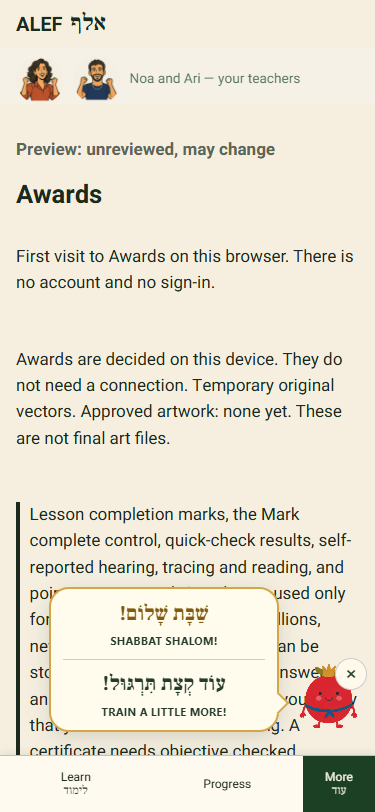
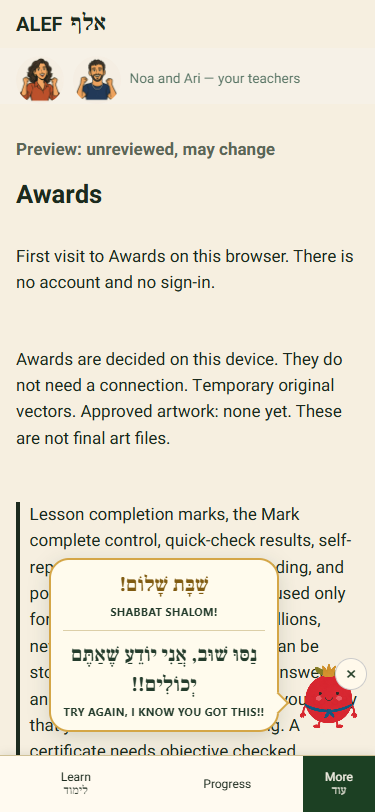
Fix mascot deployment and schedule greetings and break reminders

Changed region(s): [[0.1173, 0.6773, 0.7627, 0.8929], [0.616, 0.8621, 0.704, 0.8929]]

diff --git a/precache-manifest.js b/precache-manifest.js
@@ -1,5 +1,5 @@
 // GENERATED by tools/build-precache.mjs - do not edit.
-self.ALEF_VERSION = "c4c90d040247";
+self.ALEF_VERSION = "8133b239e48e";
 self.ALEF_PRECACHE = [
  "index.html",
  "offline.html",
@@ -306,13 +306,6 @@ self.ALEF_PRECACHE = [
  "src/trope/loader.js",
  "src/trope/model.js",
  "src/trope/trope.view.js",
- "src/typing/guide.js",
- "src/typing/typing.js",
- "src/typing/typing.view.js",
- "src/wordtrace/bank.js",
- "src/wordtrace/flow.js",
- "src/wordtrace/niqqud.js",
- "src/wordtrace/wordtrace.view.js",
  "assets/css/app.css",
  "assets/css/arcade.css",
  "assets/css/astral-home.css",
@@ -454,6 +447,9 @@ self.ALEF_ON_DEMAND = [
  "src/torahreader/torahreader.view.js",
  "src/traditions/model.js",
  "src/traditions/traditions.view.js",
+ "src/typing/guide.js",
+ "src/typing/typing.js",
+ "src/typing/typing.view.js",
  "src/vocab/aliases.js",
  "src/vocab/clips.js",
  "src/vocab/loader.js",
@@ -462,6 +458,10 @@ self.ALEF_ON_DEMAND = [
  "src/vocab/themes.view.js",
  "src/vocab/vocab.js",
  "src/vocab/vocab.view.js",
+ "src/wordtrace/bank.js",
+ "src/wordtrace/flow.js",
+ "src/wordtrace/niqqud.js",
+ "src/wordtrace/wordtrace.view.js",
  "assets/books/book1/BOOK1_p01.jpg",
  "assets/books/book1/BOOK1_p02.jpg",
  "assets/books/book1/BOOK1_p03.jpg",
@@ -845,6 +845,7 @@ self.ALEF_ON_DEMAND = [
  "assets/games/tugowar/pairs/TUG_believe_doubt.png",
  "assets/games/tugowar/pairs/TUG_bitter_sweet.png",
  "assets/games/tugowar/pairs/TUG_bless_curse.png",
+ "assets/games/tugowar/pairs/TUG_blessing_curse.png",
  "assets/games/tugowar/pairs/TUG_brave_coward.png",
  "assets/games/tugowar/pairs/TUG_bright_dark_colour.png",
  "assets/games/tugowar/pairs/TUG_brother_sister.png",
@@ -854,6 +855,7 @@ self.ALEF_ON_DEMAND = [
  "assets/games/tugowar/pairs/TUG_calm_nervous.png",
  "assets/games/tugowar/pairs/TUG_careful_reckless.png",
  "assets/games/tugowar/pairs/TUG_catch_throw.png",
+ "assets/games/tugowar/pairs/TUG_child_adult.png",
  "assets/games/tugowar/pairs/TUG_city_village.png",
  "assets/games/tugowar/pairs/TUG_come_go.png",
  "assets/games/tugowar/pairs/TUG_connect_disconnect.png",
@@ -888,14 +890,19 @@ self.ALEF_ON_DEMAND = [
  "assets/games/tugowar/pairs/TUG_good_bad.png",
  "assets/games/tugowar/pairs/TUG_grandfather_grandmother.png",
  "assets/games/tugowar/pairs/TUG_groom_bride.png",
+ "assets/games/tugowar/pairs/TUG_guest_host.png",
  "assets/games/tugowar/pairs/TUG_happy_miserable.png",
  "assets/games/tugowar/pairs/TUG_hardworking_lazy.png",
+ "assets/games/tugowar/pairs/TUG_head_tail.png",
+ "assets/games/tugowar/pairs/TUG_health_illness.png",
  "assets/games/tugowar/pairs/TUG_healthy_sick.png",
+ "assets/games/tugowar/pairs/TUG_heat_cold_noun.png",
  "assets/games/tugowar/pairs/TUG_heat_cool.png",
  "assets/games/tugowar/pairs/TUG_here_there.png",
  "assets/games/tugowar/pairs/TUG_hidden_visible.png",
  "assets/games/tugowar/pairs/TUG_holy_everyday.png",
  "assets/games/tugowar/pairs/TUG_hungry_full.png",
+ "assets/games/tugowar/pairs/TUG_income_expense.png",
  "assets/games/tugowar/pairs/TUG_inner_outer.png",
  "assets/games/tugowar/pairs/TUG_inside_outside.png",
  "assets/games/tugowar/pairs/TUG_interesting_boring.png",
@@ -903,6 +910,7 @@ self.ALEF_ON_DEMAND = [
  "assets/games/tugowar/pairs/TUG_keep_throw_away.png",
  "assets/games/tugowar/pairs/TUG_king_queen.png",
  "assets/games/tugowar/pairs/TUG_kosher_nonkosher.png",
+ "assets/games/tugowar/pairs/TUG_landlord_tenant.png",
  "assets/games/tugowar/pairs/TUG_laugh_cry.png",
  "assets/games/tugowar/pairs/TUG_lend_borrow.png",
  "assets/games/tugowar/pairs/TUG_life_death.png",
@@ -913,6 +921,7 @@ self.ALEF_ON_DEMAND = [
  "assets/games/tugowar/pairs/TUG_love_hate.png",
  "assets/games/tugowar/pairs/TUG_love_hatred.png",
  "assets/games/tugowar/pairs/TUG_loved_hated.png",
+ "assets/games/tugowar/pairs/TUG_male_female.png",
  "assets/games/tugowar/pairs/TUG_man_woman.png",
  "assets/games/tugowar/pairs/TUG_married_single.png",
  "assets/games/tugowar/pairs/TUG_marry_divorce.png",
@@ -921,9 +930,11 @@ self.ALEF_ON_DEMAND = [
  "assets/games/tugowar/pairs/TUG_more_less.png",
  "assets/games/tugowar/pairs/TUG_morning_evening.png",
  "assets/games/tugowar/pairs/TUG_mountain_valley.png",
+ "assets/games/tugowar/pairs/TUG_noise_quiet.png",
  "assets/games/tugowar/pairs/TUG_north_south.png",
  "assets/games/tugowar/pairs/TUG_on_off.png",
  "assets/games/tugowar/pairs/TUG_open_close.png",
+ "assets/games/tugowar/pairs/TUG_past_future.png",
  "assets/games/tugowar/pairs/TUG_peace_war.png",
  "assets/games/tugowar/pairs/TUG_permanent_temporary.png",
  "assets/games/tugowar/pairs/TUG_pleasant_disgusting.png",
@@ -931,20 +942,25 @@ self.ALEF_ON_DEMAND = [
  "assets/games/tugowar/pairs/TUG_positive_negative.png",
  "assets/games/tugowar/pairs/TUG_praise_criticize.png",
  "assets/games/tugowar/pairs/TUG_private_public.png",
+ "assets/games/tugowar/pairs/TUG_profit_loss.png",
  "assets/games/tugowar/pairs/TUG_pure_impure.png",
  "assets/games/tugowar/pairs/TUG_push_pull.png",
  "assets/games/tugowar/pairs/TUG_question_answer.png",
  "assets/games/tugowar/pairs/TUG_quickly_slowly.png",
+ "assets/games/tugowar/pairs/TUG_rain_drought.png",
  "assets/games/tugowar/pairs/TUG_raise_lower.png",
  "assets/games/tugowar/pairs/TUG_remember_forget.png",
  "assets/games/tugowar/pairs/TUG_rich_poor.png",
  "assets/games/tugowar/pairs/TUG_right_left.png",
+ "assets/games/tugowar/pairs/TUG_righteous_wicked.png",
+ "assets/games/tugowar/pairs/TUG_rise_set.png",
  "assets/games/tugowar/pairs/TUG_round_square.png",
  "assets/games/tugowar/pairs/TUG_run_stop.png",
  "assets/games/tugowar/pairs/TUG_safe_dangerous.png",
  "assets/games/tugowar/pairs/TUG_same_different.png",
  "assets/games/tugowar/pairs/TUG_satisfied_disappointed.png",
  "assets/games/tugowar/pairs/TUG_sea_land.png",
+ "assets/games/tugowar/pairs/TUG_seller_buyer.png",
  "assets/games/tugowar/pairs/TUG_send_receive.png",
  "assets/games/tugowar/pairs/TUG_serious_funny.png",
  "assets/games/tugowar/pairs/TUG_shabbat_weekday.png",
@@ -962,8 +978,10 @@ self.ALEF_ON_DEMAND = [
  "assets/games/tugowar/pairs/TUG_stop_continue.png",
  "assets/games/tugowar/pairs/TUG_straight_crooked.png",
  "assets/games/tugowar/pairs/TUG_succeed_fail.png",
+ "assets/games/tugowar/pairs/TUG_success_failure.png",
  "assets/games/tugowar/pairs/TUG_summer_winter.png",
  "assets/games/tugowar/pairs/TUG_sun_moon.png",
+ "assets/games/tugowar/pairs/TUG_sunrise_sunset.png",
  "assets/games/tugowar/pairs/TUG_teach_learn.png",
  "assets/games/tugowar/pairs/TUG_teacher_student.png",
  "assets/games/tugowar/pairs/TUG_tidy_messy.png",
@@ -974,8 +992,10 @@ self.ALEF_ON_DEMAND = [
  "assets/games/tugowar/pairs/TUG_up_down.png",
  "assets/games/tugowar/pairs/TUG_upper_lower.png",
  "assets/games/tugowar/pairs/TUG_urban_rural.png",
+ "assets/games/tugowar/pairs/TUG_victory_defeat.png",
  "assets/games/tugowar/pairs/TUG_wake_sleep.png",
  "assets/games/tugowar/pairs/TUG_warm_cool.png",
+ "assets/games/tugowar/pairs/TUG_wealth_poverty.png",
  "assets/games/tugowar/pairs/TUG_whole_broken.png",
  "assets/games/tugowar/pairs/TUG_win_lose.png",
  "assets/games/tugowar/pairs/TUG_wise_foolish.png",

diff --git a/src/shell/rimon-speech.js b/src/shell/rimon-speech.js
@@ -12,6 +12,25 @@ export const MESSAGES = Object.freeze({
   fruit: {he:'אִכְלוּ רִמּוֹן וְחִזְרוּ!!', en:'HAVE A POMEGRANATE AND COME BACK!!'},
 });
 export const SHABBAT = Object.freeze({he:'שַׁבָּת שָׁלוֹם!',en:'SHABBAT SHALOM!'});
+export const SHALOM = Object.freeze({he:'שָׁלוֹם!',en:'Hello!'});
+export const ENCOURAGEMENT_MS=5*60*1000, IDLE_BREAK_MS=15*60*1000, SESSION_BREAK_MS=60*60*1000;
+export function createSpeechSchedule(){
+  let started=null,lastActivity=0,next=0,count=0,breakCount=0,pending=null;
+  const encouragement=['keep','great','awesome','super','star','practice','again','winner'];
+  return {
+    activity(time){lastActivity=time;},
+    reaction(action){if(['bounce','laugh','highfive','sad','nervous','stretch'].includes(action))pending=action;},
+    tick(time,visible=true){
+      if(!visible)return null;
+      if(started===null){started=time;lastActivity=time;next=time+ENCOURAGEMENT_MS;return SHALOM;}
+      if(time<next)return null;
+      next=time+ENCOURAGEMENT_MS;
+      if(time-lastActivity>=IDLE_BREAK_MS || time-started>=SESSION_BREAK_MS){pending=null;return MESSAGES[breakCount++%2?'fruit':'tired'];}
+      const choices=SPEECH[pending];pending=null;
+      return MESSAGES[choices?.[0] || encouragement[count++%encouragement.length]];
+    }
+  };
+}
 export const SPEECH = Object.freeze({
   wave:['keep','awesome'],wink:['awesome','super'],bounce:['great','super','awesome'],
   laugh:['super','great'],highfive:['winner','star'],nervous:['again','keep'],
@@ -28,7 +47,7 @@ export function mountSpeechBubble(host,{doc=document,now=()=>new Date()}={}){
   const bubble=doc.createElement('div');bubble.className='rimon-bubble';bubble.hidden=true;
   bubble.setAttribute('role','status');bubble.setAttribute('aria-live','polite');bubble.setAttribute('aria-atomic','true');
   doc.body.append(bubble);
-  const pick=createSpeechPicker();let message=null,expires=0,friday=isFriday(now()),key='',lastAction='',lastSpoke=0;
+  const schedule=createSpeechSchedule();let message=null,expires=0,friday=isFriday(now()),key='';
   function pair(line,cls){
     const group=doc.createElement('span');group.className=cls;
     const he=doc.createElement('span');he.className='rimon-bubble-he';he.lang='he';he.dir='rtl';he.textContent=line.he;
@@ -46,6 +65,8 @@ export function mountSpeechBubble(host,{doc=document,now=()=>new Date()}={}){
   }
   function render(){
     const time=now().getTime();friday=isFriday(now());if(message && time>=expires)message=null;
+    const scheduled=schedule.tick(time,!host.hidden && !doc.hidden);
+    if(scheduled){message=scheduled;expires=time+Math.max(6500,scheduled.en.length*160);}
     const nextKey=(friday?'friday':'')+'|'+(message?.en||'')+'|'+host.hidden;
     if(nextKey!==key){
       key=nextKey;bubble.replaceChildren();
@@ -57,13 +78,14 @@ export function mountSpeechBubble(host,{doc=document,now=()=>new Date()}={}){
     position();
   }
   function say(action){
-    const time=now().getTime();if(host.hidden || (action===lastAction && time-lastSpoke<1800))return;
-    const chosen=pick(action);if(!chosen)return;
-    lastAction=action;lastSpoke=time;message=chosen;expires=time+Math.max(6500,chosen.en.length*160);render();
+    schedule.reaction(action);
   }
+  const activity=()=>schedule.activity(now().getTime());
+  const activityEvents=['pointerdown','pointermove','keydown','touchstart','scroll'];
+  for(const event of activityEvents)doc.addEventListener(event,activity,{passive:true,capture:true});
   const interval=setInterval(render,1000);
   const visibility=()=>render();doc.addEventListener('visibilitychange',visibility);
   globalThis.addEventListener('resize',position);globalThis.addEventListener('scroll',position,{passive:true,capture:true});
   render();
-  return {say,refresh:render,element:bubble,destroy(){clearInterval(interval);bubble.remove();doc.removeEventListener('visibilitychange',visibility);globalThis.removeEventListener('resize',position);globalThis.removeEventListener('scroll',position,true);}};
+  return {say,refresh:render,element:bubble,destroy(){clearInterval(interval);bubble.remove();for(const event of activityEvents)doc.removeEventListener(event,activity,true);doc.removeEventListener('visibilitychange',visibility);globalThis.removeEventListener('resize',position);globalThis.removeEventListener('scroll',position,true);}};
 }

diff --git a/tests/shell.rimon-speech.test.js b/tests/shell.rimon-speech.test.js
@@ -1,6 +1,21 @@
 import test from 'node:test';
 import assert from 'node:assert/strict';
-import {MESSAGES,SHABBAT,SPEECH,createSpeechPicker,isFriday} from '../src/shell/rimon-speech.js';
+import {MESSAGES,SHABBAT,SHALOM,SPEECH,createSpeechPicker,isFriday,createSpeechSchedule} from '../src/shell/rimon-speech.js';
+
+test('first encounter says hello; encouragement waits five minutes and repeats every five minutes',()=>{
+ const s=createSpeechSchedule();assert.equal(s.tick(0,false),null);assert.equal(s.tick(1000),SHALOM);
+ s.reaction('highfive');assert.equal(s.tick(300999),null);assert.equal(s.tick(301000),MESSAGES.winner);
+ assert.equal(s.tick(600999),null);s.activity(601000);assert.equal(s.tick(601000),MESSAGES.keep);
+});
+test('break messages require fifteen minutes idle or an hour in the session',()=>{
+ const s=createSpeechSchedule();s.tick(0);s.reaction('yawn');assert.equal(s.tick(300000),MESSAGES.keep);
+ assert.equal(s.tick(600000),MESSAGES.great);assert.equal(s.tick(900000),MESSAGES.tired);
+ s.activity(1199999);assert.notEqual(s.tick(1200000),MESSAGES.fruit);
+ const active=createSpeechSchedule();active.tick(0);
+ for(let t=300000;t<3600000;t+=300000){active.activity(t);assert.ok(![MESSAGES.tired,MESSAGES.fruit].includes(active.tick(t)));}
+ active.activity(3600000);assert.equal(active.tick(3600000),MESSAGES.tired);
+ active.activity(3900000);assert.equal(active.tick(3900000),MESSAGES.fruit);
+});
 test('all ten requested messages have pointed Hebrew and exact English encouragement',()=>{
  assert.equal(Object.keys(MESSAGES).length,10);
  for(const m of Object.values(MESSAGES)){assert.match(m.he,/[א-ת]/);assert.match(m.he,/[\u05B0-\u05BC]/);assert.ok(m.en.length>5);}

diff --git a/src/shell/offline.js b/src/shell/offline.js
@@ -52,7 +52,7 @@ export const ON_DEMAND_GROUPS = Object.freeze([
   { id: "od-vocab", label: "Vocabulary data and theme packs", test: /^data\/vocab\//, approxMB: 5.9 },
   { id: "od-audio-index", label: "Audio clip list (core)", test: /^data\/audio\//, approxMB: 2.6 },
   { id: "od-pronunciation", label: "Sounds and pronunciation data", test: /^data\/pronunciation\//, approxMB: 0.8 },
-  { id: "od-speak", label: "Speaking, Israel dialogues, listening, typing, word tracing", test: /^data\/(speak|israel|listen|typing|wordtrace)\//, approxMB: 0.5 },
+  { id: "od-speak", label: "Speaking, Israel dialogues, listening, typing, word tracing", test: /^(data\/(speak|israel|listen|typing|wordtrace)\/|src\/(wordtrace|typing)\/)/, approxMB: 0.5 },
   { id: "od-reading", label: "Reading, festivals, calendar, grammar and pronunciation-style data", test: /^data\/(corpus|torahread|festivals|calendar|grammar|traditions|trope-trainer)\//, approxMB: 0.5 },
   { id: "od-intermediate", label: "Intermediate lessons and class track", test: /^data\/curriculum\//, approxMB: 0.6 },
   { id: "od-letter-pictures", label: "Letter memory pictures (the rest of the alphabet)", test: /^assets\/letters\/morph\//, approxMB: 0.09 },

diff --git a/docs/qa/rimon.md b/docs/qa/rimon.md
@@ -40,3 +40,5 @@ Added all ten requested encouragements in pointed Hebrew with the English direct
 Every Friday in the visitor's local calendar, Shabbat Shalom remains in the bubble alongside any reaction message. The date is rechecked while the page is open and when the tab becomes visible, including Friday/Saturday midnight boundaries. No sound is added; these are written speech bubbles.
 
 151 focused tests pass. Browser checks cover desktop, 375px phone positioning, Hebrew/English order, reduced motion, hide/restore, and both Friday midnight transitions, with zero uncaught page errors. Reproduce with tools/qa/qa-rimon-bubbles.mjs. The phrase list and action mapping live in src/shell/rimon-speech.js.
+
+Speech timing: first encounter shows Shalom / Hello. Encouragement is scheduled after five minutes and every five minutes thereafter; game signals select the next scheduled phrase without creating extra popups. Tired and pomegranate-break phrases require 15 minutes without site interaction or one hour since the encounter. Fridays retain Shabbat Shalom. Verified the timing boundaries with unit tests and mobile/desktop browser checks. The deployment explicitly includes assets/img/rimon; optional tracing and typing modules load on demand to keep the initial cache at 3.93 MiB. All 45 deployment checks pass.
